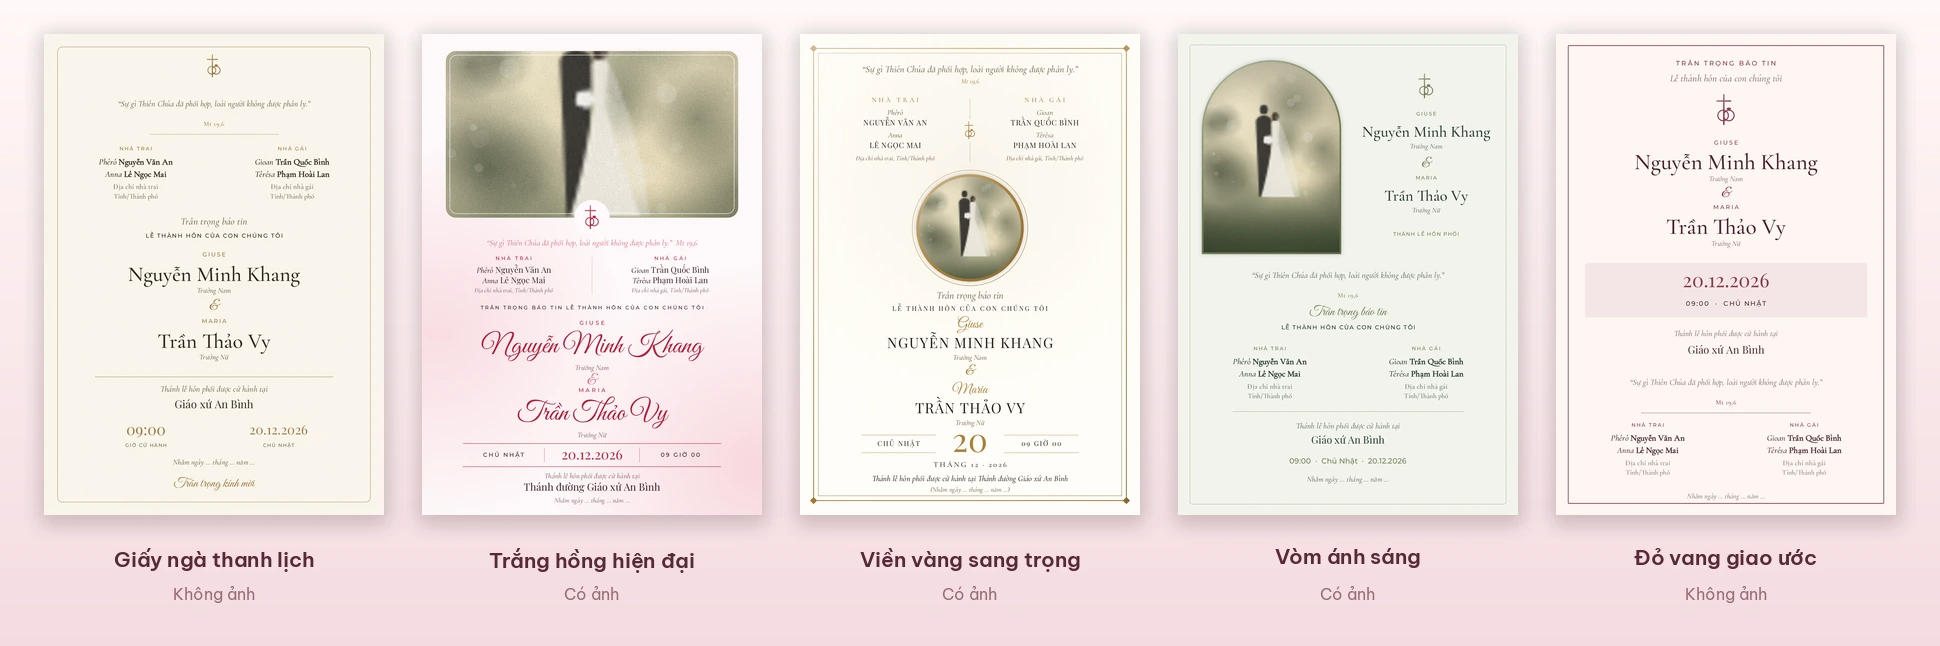
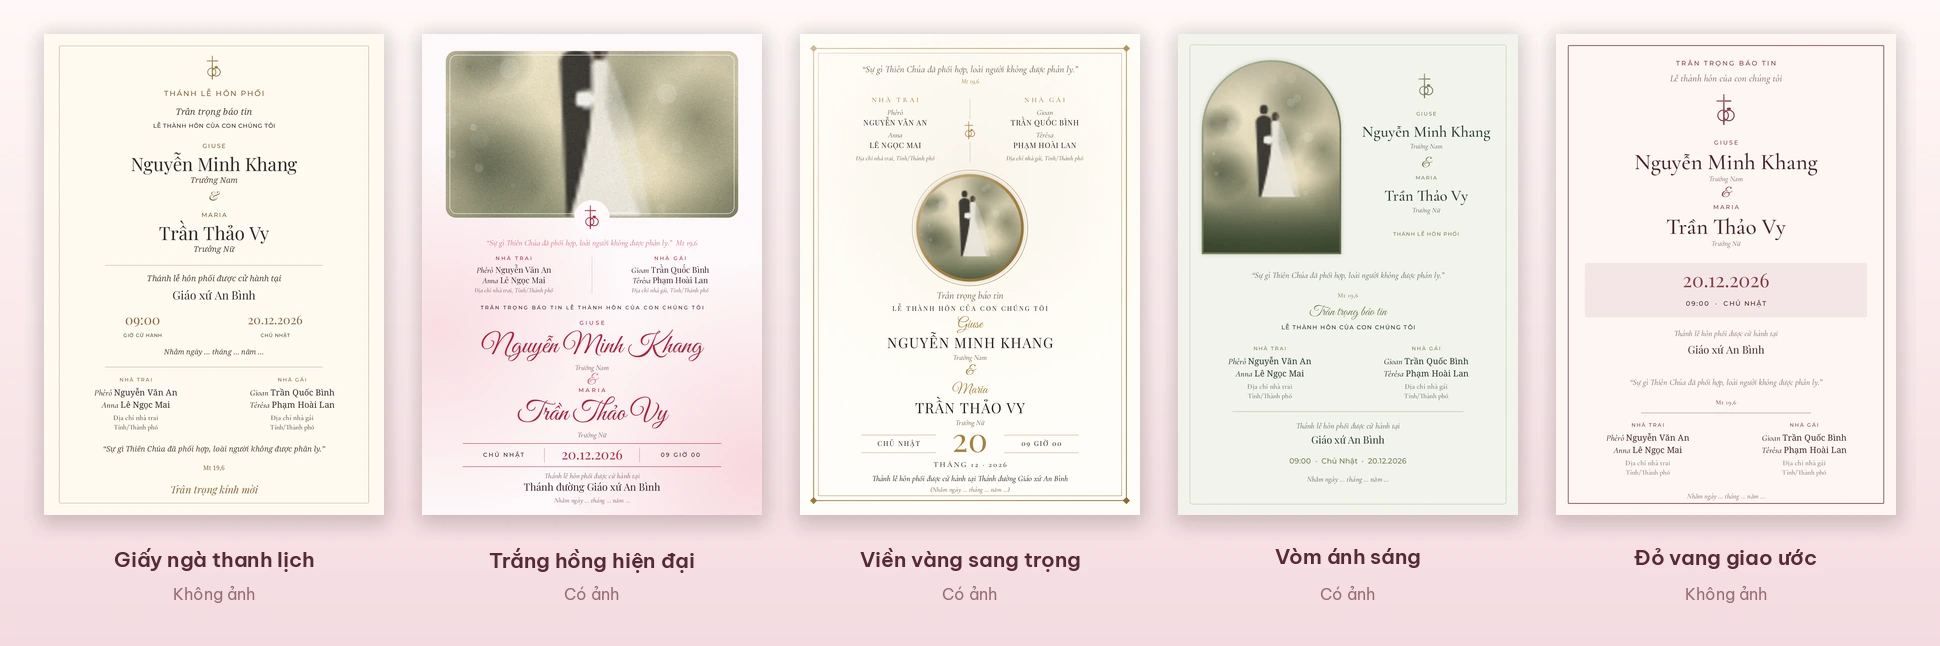
Fix invitation photo previews, refine ivory typography, and correct PaNIC branding

diff --git a/index.html b/index.html
@@ -3,7 +3,7 @@
 <head>
 <meta charset="utf-8">
 <meta name="viewport" content="width=device-width,initial-scale=1,viewport-fit=cover">
-<title>PaNIC Hôn Phối — Ảnh & thiệp mời thánh lễ hôn phối</title>
+<title>PaNIC Thánh Lễ Hôn Phối — Ảnh & thiệp mời thánh lễ hôn phối</title>
 <meta name="description" content="Tạo ảnh cho thánh lễ hôn phối Công giáo: tên thánh, họ tên đôi tân hôn, Lời Chúa, biểu tượng đức tin — chiếu tivi, đăng mạng xã hội — và thiệp mời tham dự thánh lễ.">
 <meta name="theme-color" content="#fdf6f7">
 <link rel="canonical" href="https://panic-thanhle-hp.vercel.app/">
@@ -12,25 +12,25 @@
 <link rel="apple-touch-icon" href="/apple-touch-icon.png">
 <link rel="manifest" href="/site.webmanifest">
 <meta property="og:type" content="website">
-<meta property="og:site_name" content="PaNIC Hôn Phối">
+<meta property="og:site_name" content="PaNIC Thánh Lễ Hôn Phối">
 <meta property="og:locale" content="vi_VN">
 <meta property="og:url" content="https://panic-thanhle-hp.vercel.app/">
-<meta property="og:title" content="PaNIC Hôn Phối — Ảnh & thiệp mời thánh lễ hôn phối">
+<meta property="og:title" content="PaNIC Thánh Lễ Hôn Phối — Ảnh & thiệp mời thánh lễ hôn phối">
 <meta property="og:description" content="Tên thánh, Lời Chúa, biểu tượng đức tin — tạo bộ ảnh chiếu tivi trong thánh lễ hôn phối và thiệp mời tham dự lễ.">
-<meta property="og:image" content="https://panic-thanhle-hp.vercel.app/og.png?v=20261106-invitations5">
+<meta property="og:image" content="https://panic-thanhle-hp.vercel.app/og.png?v=20261106-photo-brand-v2">
 <meta property="og:image:width" content="1200">
 <meta property="og:image:height" content="630">
 <meta name="twitter:card" content="summary_large_image">
-<meta name="twitter:image" content="https://panic-thanhle-hp.vercel.app/og.png?v=20261106-invitations5">
+<meta name="twitter:image" content="https://panic-thanhle-hp.vercel.app/og.png?v=20261106-photo-brand-v2">
 <link rel="preconnect" href="https://fonts.googleapis.com">
 <link rel="preconnect" href="https://fonts.gstatic.com" crossorigin>
 <link href="https://fonts.googleapis.com/css2?family=Be+Vietnam+Pro:wght@300;400;500;600&family=Cormorant+Garamond:ital,wght@0,400;0,500;1,400;1,500&family=Dancing+Script:wght@500&family=Ephesis&family=Noto+Serif:ital,wght@0,400;0,700;1,400&family=Great+Vibes&family=Lora:ital,wght@0,400;1,400&family=Montserrat:wght@300;400;500;600&family=Noto+Serif+Display:ital,wght@0,300;0,400;1,300&family=Playfair+Display:ital,wght@0,400;0,500;1,400&display=swap" rel="stylesheet">
-<link rel="stylesheet" href="assets/css/app.css?v=20261106-invitations5">
+<link rel="stylesheet" href="assets/css/app.css?v=20261106-photo-brand-v2">
 </head>
 <body>
 <div class="app">
   <header>
-    <button class="brand" id="brand" aria-label="PaNIC Hôn Phối"><img src="favicon.svg" alt=""><span><b>PaNIC <i>Hôn Phối</i></b><small>Ảnh &amp; thiệp mời</small></span></button>
+    <button class="brand" id="brand" aria-label="PaNIC Thánh Lễ Hôn Phối"><img src="favicon.svg" alt=""><span><b>PaNIC <i>Thánh Lễ HP</i></b><small>Ảnh &amp; thiệp mời</small></span></button>
     <button class="szbtn" id="szbtn" aria-label="Đổi khổ màn hình"><b id="szlabel"></b><small id="szsub"></small><svg viewBox="0 0 24 24" fill="none" stroke="currentColor" stroke-width="2" stroke-linecap="round"><path d="M7 10l5 5 5-5"/></svg></button>
     <div class="slotbar" id="slotbar">
       <button id="sbRep"><svg viewBox="0 0 24 24" fill="none" stroke="currentColor" stroke-width="1.8" stroke-linejoin="round"><rect x="3.5" y="5" width="17" height="14" rx="2"/><path d="M4 17l5-4.5 4 3.5 3-2.5 4 3.5"/></svg><span>Thay ảnh</span></button>
@@ -62,9 +62,9 @@
 <div class="toast" id="toast"></div>
 <div class="busy" id="busy"><div class="spin"></div><span id="busytxt">Đang xử lý…</span></div>
 <div class="modal" id="modal"><div class="mbox" id="mbox"></div></div>
-<script src="assets/js/data.js?v=20261106-invitations5"></script>
-<script src="assets/js/engine.js?v=20261106-invitations5"></script>
-<script src="assets/js/templates.js?v=20261106-invitations5"></script>
-<script src="assets/js/app.js?v=20261106-invitations5"></script>
+<script src="assets/js/data.js?v=20261106-photo-brand-v2"></script>
+<script src="assets/js/engine.js?v=20261106-photo-brand-v2"></script>
+<script src="assets/js/templates.js?v=20261106-photo-brand-v2"></script>
+<script src="assets/js/app.js?v=20261106-photo-brand-v2"></script>
 </body>
 </html>

diff --git a/assets/js/templates.js b/assets/js/templates.js
@@ -125,7 +125,7 @@ function invFamilies(K,W,f,top,C){
   const {T,R,y}=K;
   const one=(cx,label,sa,na,sb,nb,addr)=>{
     T(label,cx,y(top),{font:'mont',size:15,ls:.2,upper:1,color:C.accent,fit:W*.4});
-    const parent=(saint,name,yy)=>R([{text:saint+' ',font:'cg',italic:1},{text:name,font:'cg',weight:600}],cx,y(yy),25,{color:C.text,fit:W*.4});
+    const parent=(saint,name,yy)=>R([{text:saint+' ',font:'cg',italic:1},{text:name,font:'times',weight:400}],cx,y(yy),25,{color:C.text,fit:W*.4});
     parent(sa,na,top+37);parent(sb,nb,top+73);
     const [first,last]=splitAddr(addr);
     T(first,cx,y(top+112),{font:'cg',size:21,color:C.mute,fit:W*.4});
@@ -141,29 +141,34 @@ function invVerse(K,W,v,top,C){
 }
 /* 1 · Giấy ngà: chữ serif chủ đạo, dấu ấn đức tin và nhịp chữ cân đối; không có ảnh. */
 function invCream({W,H,f,v,sym}){
-  const K=invKit(W,H),{e,T,L,y,fs}=K,C={text:'#32291f',accent:'#9d7a43',mute:'#786850'};
-  e.push({t:'rect',x:0,y:0,w:W,h:H,fill:'#fbf7ee'},{t:'paper',alpha:.18},
-    {t:'rframe',x:W*.04,y:y(38),w:W*.92,h:H-y(76),r:fs(14),lw:fs(1.4),color:'#b89c70'},
-    {t:'sym',kind:sym,x:W/2,y:y(95),s:fs(68),color:'gold'});
-  invVerse(K,W,v,206,C);L(W*.31,y(295),W*.69,{color:C.accent,lw:fs(.8)});
-  invFamilies(K,W,f,338,C);
-  T(f.inv1,W/2,y(552),{font:'cg',italic:1,size:29,color:C.mute});
-  T(f.inv2,W/2,y(594),{font:'mont',size:17,upper:1,ls:.15,color:C.text});
+  const K=invKit(W,H),{e,T,L,y,fs}=K,C={text:'#302c28',accent:'#8a643b',mute:'#51473d'};
+  e.push({t:'rect',x:0,y:0,w:W,h:H,fill:'#fffaf1'},
+    {t:'rframe',x:W*.045,y:y(35),w:W*.91,h:H-y(70),r:fs(3),lw:fs(1.2),color:'#b49a75'},
+    {t:'sym',kind:sym,x:W/2,y:y(100),s:fs(70),color:'gold'});
+  T('THÁNH LỄ HÔN PHỐI',W/2,y(176),{font:'mont',size:22,ls:.15,color:C.accent});
+  T(f.inv1,W/2,y(230),{font:'times',italic:1,size:26,color:C.mute});
+  T(f.inv2,W/2,y(271),{font:'mont',size:17,upper:1,ls:.06,color:C.text});
   const person=(saint,name,rank,yy)=>{
-    T(saint,W/2,y(yy),{font:'mont',size:17,upper:1,ls:.22,color:C.accent});
-    T(name,W/2,y(yy+61),{font:'cg',size:62,color:C.text,fit:W*.82});
-    T(rank,W/2,y(yy+106),{font:'cg',italic:1,size:22,color:C.mute});
+    T(saint,W/2,y(yy),{font:'mont',size:18,upper:1,ls:.16,color:C.accent});
+    T(name,W/2,y(yy+56),{font:'pf',size:54,color:C.text,fit:W*.82});
+    T(rank,W/2,y(yy+101),{font:'times',italic:1,size:23,color:C.mute});
   };
-  person(f.gs,f.gn,f.grank,649);T('&',W/2,y(801),{font:'gv',size:44,color:C.accent});person(f.bs,f.bn,f.brank,845);
-  L(W*.15,y(1008),W*.85,{color:C.accent,lw:fs(.9)});
-  T(f.inv3,W/2,y(1045),{font:'cg',italic:1,size:25,color:C.mute});
-  T(f.parish,W/2,y(1090),{font:'pf',size:32,color:C.text,fit:W*.82});
-  T(f.time,W*.3,y(1165),{font:'pf',size:45,color:C.accent,fit:W*.3});
-  T(dotDate(f.date),W*.69,y(1165),{font:'pf',size:38,color:C.accent,fit:W*.38});
-  T('Giờ cử hành',W*.3,y(1210),{font:'mont',size:14,upper:1,ls:.16,color:C.mute,fit:W*.3});
-  T(weekday(f.date),W*.69,y(1210),{font:'mont',size:14,upper:1,ls:.16,color:C.mute,fit:W*.38});
-  if(f.lunar)T(f.lunar,W/2,y(1260),{font:'cg',italic:1,size:22,color:C.mute,fit:W*.82});
-  T('Trân trọng kính mời',W/2,y(1324),{font:'gv',size:38,color:C.accent});
+  person(f.gs,f.gn,f.grank,330);
+  T('&',W/2,y(478),{font:'pf',italic:1,size:37,color:C.accent});
+  person(f.bs,f.bn,f.brank,533);
+  L(W*.18,y(680),W*.82,{color:'#b49a75',lw:fs(1)});
+  T(f.inv3,W/2,y(720),{font:'times',italic:1,size:24,color:C.mute});
+  T(f.parish,W/2,y(770),{font:'pf',size:34,color:C.text,fit:W*.82});
+  T(f.time,W*.29,y(842),{font:'pf',size:40,color:C.accent,fit:W*.29});
+  T(dotDate(f.date),W*.68,y(842),{font:'pf',size:36,color:C.accent,fit:W*.39});
+  T('GIỜ CỬ HÀNH',W*.29,y(887),{font:'mont',size:14,ls:.1,color:C.mute});
+  T(weekday(f.date),W*.68,y(887),{font:'mont',size:14,upper:1,ls:.1,color:C.mute});
+  if(f.lunar)T(f.lunar,W/2,y(936),{font:'times',italic:1,size:21,color:C.mute});
+  L(W*.18,y(979),W*.82,{color:'#b49a75',lw:fs(1)});
+  invFamilies(K,W,f,1017,C);
+  T(`“${v.t}”`,W/2,y(1221),{font:'times',italic:1,size:22,color:C.mute,maxW:W*.8,maxH:fs(64),lh:1.3});
+  T(v.r,W/2,y(1277),{font:'times',size:18,color:C.accent});
+  T('Trân trọng kính mời',W/2,y(1341),{font:'pf',italic:1,size:30,color:C.accent});
   return e}
 
 /* 2 · Trắng hồng hiện đại — ảnh lớn trên đầu, dải ngày tháng kẻ chỉ, chữ không chân + chữ bay */

diff --git a/assets/js/app.js b/assets/js/app.js
@@ -28,7 +28,7 @@ cv.addEventListener('pointermove',ev=>{if(!ptrs.has(ev.pointerId))return;ptrs.se
   if(pinch&&ptrs.size===2){const[a,b]=[...ptrs.values()],d=Math.hypot(a.clientX-b.clientX,a.clientY-b.clientY);ens(sel).z=clamp(pinch.z*d/pinch.d,1,4);draw();return}
   if(!drag||drag.h==null)return;const pt=toD(ev);if(!drag.moved&&Math.hypot(pt.x-drag.start.x,pt.y-drag.start.y)<8)return;
   drag.moved=true;if(drag.idx!==sel)return;
-  const e=lastSlots[drag.h],src=srcFor(curSlide(),drag.idx,S.cur);if(!e||!src)return;const st=ens(drag.idx);
+  const e=lastSlots[drag.h],src=srcFor(curSlide(),drag.idx,slideIndex(curSlide()));if(!e||!src)return;const st=ens(drag.idx);
   let dx=pt.x-drag.last.x,dy=pt.y-drag.last.y;const G=coverGeom(e,src,st);if(G.ex>.5)st.ox=clamp(st.ox+2*dx/G.ex,-1,1);if(G.ey>.5)st.oy=clamp(st.oy+2*dy/G.ey,-1,1);drag.last=pt;draw()});
 const endP=ev=>{if(!ptrs.has(ev.pointerId))return;ptrs.delete(ev.pointerId);if(ptrs.size<2)pinch=null;
   if(drag&&!drag.moved&&ptrs.size===0){if(drag.idx==null)sel=null;else{sel=drag.idx;if(!photos.length&&!S.demo){uploadTarget=sel;$('#file').click()}}hideHint();draw();if(tab==='photo')renderPanel()}
@@ -126,7 +126,7 @@ function renderPanel(){
     const on=P.querySelector('.tcard.on');if(peek&&on)on.scrollIntoView({inline:'center',block:'nearest'});thumbs();
   }
   else if(tab==='photo'){
-    const st=sel!=null?ens(sel):null,cur=sel!=null?(st.pid||(photos.length?photos[(S.cur*3+sel)%photos.length].id:null)):null;
+    const st=sel!=null?ens(sel):null,cur=sel!=null?(st.pid||(photos.length?photos[photoIndex(curSlide(),sel,photos.length)].id:null)):null;
     const lib=photos.map(q=>`<div class="ph${q.id===cur?' pick':''}" data-id="${q.id}"><img src="${q.thumb}" alt=""><button class="x" data-del="${q.id}" aria-label="Xoá">×</button></div>`).join('');
     P.innerHTML=peek?`<div class="hstrip phs"><button class="addph" id="upAll"><svg viewBox="0 0 24 24" fill="none" stroke="currentColor" stroke-width="2" stroke-linecap="round"><path d="M12 5v14M5 12h14"/></svg><span>Thêm ảnh</span></button>${lib}
         <div class="pnote">${sel!=null?(photos.length?'Chạm một ảnh để đặt vào khung đang chọn':'Thêm ảnh để thay vào khung đang chọn'):(photos.length?'Ảnh tự xếp vào các slide · chạm khung để chọn':'Chọn nhiều ảnh cưới — tự xếp vào tất cả slide')}</div></div>`
@@ -281,7 +281,7 @@ $('#szbtn').onclick=()=>openTab('show');
 function setAppMode(m){if(S.mode===m)return;S.mode=m;sel=null;save();document.querySelectorAll('.modesw button').forEach(b=>b.classList.toggle('on',b.dataset.m===m));
   buildTabs();$('#strip').innerHTML='';fitStage();renderStrip();openTab(tab)}
 document.querySelectorAll('.modesw button').forEach(b=>{b.classList.toggle('on',b.dataset.m===S.mode);b.onclick=()=>setAppMode(b.dataset.m)});
-$('#brand').onclick=()=>{$('#mbox').innerHTML=`<h3>PaNIC Hôn Phối</h3><p>Tạo ảnh cho thánh lễ hôn phối — tên thánh, họ tên, Lời Chúa, biểu tượng đức tin — để chiếu trên tivi, đăng mạng xã hội, và tạo thiệp mời tham dự thánh lễ.</p>
+$('#brand').onclick=()=>{$('#mbox').innerHTML=`<h3>PaNIC Thánh Lễ Hôn Phối</h3><p>Tạo ảnh cho thánh lễ hôn phối — tên thánh, họ tên, Lời Chúa, biểu tượng đức tin — để chiếu trên tivi, đăng mạng xã hội, và tạo thiệp mời tham dự thánh lễ.</p>
   <div class="actions"><button class="bigbtn rose" id="bp">▶ Trình chiếu cả bộ ảnh</button><button class="bigbtn alt" data-reset>↺ Khôi phục cài đặt mặc định</button><button class="bigbtn ghost" id="bc">Đóng</button></div>`;$('#modal').classList.add('show');
   $('#bp').onclick=()=>{$('#modal').classList.remove('show');playStart(0)};$('#bc').onclick=()=>$('#modal').classList.remove('show');$('#mbox').querySelector('[data-reset]').onclick=askReset};
 let tT=0;function toast(m){const t=$('#toast');t.textContent=m;t.classList.add('show');clearTimeout(tT);tT=setTimeout(()=>t.classList.remove('show'),2200)}

diff --git a/assets/js/engine.js b/assets/js/engine.js
@@ -26,6 +26,8 @@ const ratio=()=>{const z=sz();return z.h/z.w};
 function pal(base){const p={...(base||PALS[S.pal]||PALS.ivory)};p.soft=mix(p.bg,p.text,.06);p.dark=lum(p.bg)<.4;p.gold1=mix(p.accent,'#ffffff',.45);p.gold2=mix(p.accent,'#000000',.18);return p}
 function texts(){return{...TEXTS,...S.texts}}
 function fam(k){const p=FP[S.fp]||FP.classic;switch(k){case'display':return[p.display,p.dw];case'serif':return[p.serif,400];case'script':return[p.script,p.script==='Dancing Script'?500:400];case'times':return['Noto Serif',400];case'sig':return['Ephesis',400];case'pf':return['Playfair Display',400];case'mont':return['Montserrat',500];case'gv':return['Great Vibes',400];case'cg':return['Cormorant Garamond',500];default:return['Montserrat',500]}}
+const slideIndex=sl=>Math.max(0,S.slides.indexOf(sl));
+const photoIndex=(sl,i,n,idx=slideIndex(sl))=>(((sl.id===S.invite.id?0:Math.max(0,idx))*3+i)%n+n)%n;
 const curSlide=()=>S.mode==='invite'?S.invite:S.slides[clamp(S.cur,0,S.slides.length-1)];
 function verseOf(sl){if(sl.v===-1)return{t:sl.vt||'',r:sl.vr||''};return VERSES[sl.v]||VERSES[0]}
 
@@ -66,8 +68,8 @@ function makeDemo(c,k,rnd){
 function slotsOf(sl){return SLOTS[sl.id]||(SLOTS[sl.id]={})}
 function srcFor(sl,i,idx){const st=slotsOf(sl)[i];
   if(st&&st.pid){const ph=photos.find(q=>q.id===st.pid);if(ph)return ph.src}
-  if(photos.length)return photos[(idx*3+i)%photos.length].src;
-  if(S.demo){const d=demos();return d[(idx*3+i)%d.length]}return null}
+  if(photos.length)return photos[photoIndex(sl,i,photos.length,idx)].src;
+  if(S.demo){const d=demos();return d[photoIndex(sl,i,d.length,idx)]}return null}
 
 /* ===== Vẽ ===== */
 function rr(ctx,x,y,w,h,r){r=Math.min(r,w/2,h/2);ctx.moveTo(x+r,y);ctx.arcTo(x+w,y,x+w,y+h,r);ctx.arcTo(x+w,y+h,x,y+h,r);ctx.arcTo(x,y+h,x,y,r);ctx.arcTo(x,y,x+w,y,r);ctx.closePath()}
@@ -255,7 +257,7 @@ const tplById=id=>TPL.find(t=>t.id===id)||INVT.find(t=>t.id===id)||TPL[0];
 function layout(W,H,sl){const tpl=tplById(sl.tpl),land=W>H*1.05,m=Math.min(W,H)*.06,g=S.gap,f=texts(),v=verseOf(sl);
   return tpl.b({W,H,m,g,f,v,land,sym:SYMBOLS[sl.sym]?sl.sym:'crossring',P:pal(tpl.pal)})}
 function render(ctx,pxW,pxH,o={}){
-  const sl=o.slide||curSlide(),idx=o.idx??S.slides.indexOf(sl),W=1000,H=1000*pxH/pxW,sc=pxW/W*(o.dpr||1),T0=tplById(sl.tpl),P=pal(T0.pal);
+  const sl=o.slide||curSlide(),idx=o.idx??slideIndex(sl),W=1000,H=1000*pxH/pxW,sc=pxW/W*(o.dpr||1),T0=tplById(sl.tpl),P=pal(T0.pal);
   ctx.setTransform(sc,0,0,sc,0,0);ctx.fillStyle=P.bg;ctx.fillRect(0,0,W,H);
   const els=layout(W,H,sl);let si=0;const slots=[];
   for(const e of els){if(e.t==='img'){drawSlot(ctx,e,si,P,{...o,sc,slide:sl,idx});slots.push({...e,_i:si});si++}

diff --git a/assets/css/app.css b/assets/css/app.css
@@ -260,7 +260,7 @@ header .slotbar #sbRep{padding:0 11px 0 9px}
 @media (min-width:900px){header .slotbar{max-width:460px;margin:0 auto}}
 header .slotbar,header .slotbar.show{position:static;left:auto;bottom:auto;transform:none}
 
-/* ===== PaNIC Hôn Phối ===== */
+/* ===== PaNIC Thánh Lễ Hôn Phối ===== */
 :root{--gold:#c23b55;--gold2:#f2aebb}
 .cta.play{background:linear-gradient(135deg,#ef8a9d,#c23b55);color:#2e1a21}
 .cta.ghost{background:var(--ink);color:#fff3f5}

diff --git a/README.md b/README.md
@@ -1,12 +1,12 @@
 <div align="center">
 
-<img src="docs/hero.svg" alt="PaNIC Hôn Phối — Ảnh và thiệp mời thánh lễ hôn phối" width="100%">
+<img src="docs/hero.svg" alt="PaNIC Thánh Lễ Hôn Phối — Ảnh và thiệp mời thánh lễ hôn phối" width="100%">
 
-### [✦ Mở PaNIC Hôn Phối](https://panic-thanhle-hp.vercel.app)
+### [✦ Mở PaNIC Thánh Lễ Hôn Phối](https://panic-thanhle-hp.vercel.app)
 
 Studio ảnh cưới chụp rất đẹp, nhưng thánh lễ hôn phối còn cần những điều riêng:<br>
 **tên thánh**, **Lời Chúa**, **biểu tượng đức tin** — và một màn hình trang nghiêm trong nhà thờ.<br>
-PaNIC Hôn Phối giúp gia đình và giáo xứ tự làm bộ ảnh ấy, cùng thiệp mời tham dự thánh lễ, chỉ trong vài phút.
+PaNIC Thánh Lễ Hôn Phối giúp gia đình và giáo xứ tự làm bộ ảnh ấy, cùng thiệp mời tham dự thánh lễ, chỉ trong vài phút.
 
 </div>
 
@@ -91,3 +91,12 @@ Bài kiểm thử tải thật JPG/PNG của cả 5 mẫu ở khổ điện tử
 <sub>Một sản phẩm trong bộ sưu tập <b>PaNIC</b> · làm với ♥ cho các giáo xứ Việt Nam</sub>
 
 </div>
+
+
+Kiểm tra ảnh tải lên trên Chromium và WebKit (giao diện điện thoại):
+
+```sh
+npx playwright install --with-deps chromium webkit
+BASE_URL=http://127.0.0.1:8000 node tests/uploaded-photos.spec.cjs
+BROWSER=webkit BASE_URL=http://127.0.0.1:8000 node tests/invitations.spec.cjs
+```
